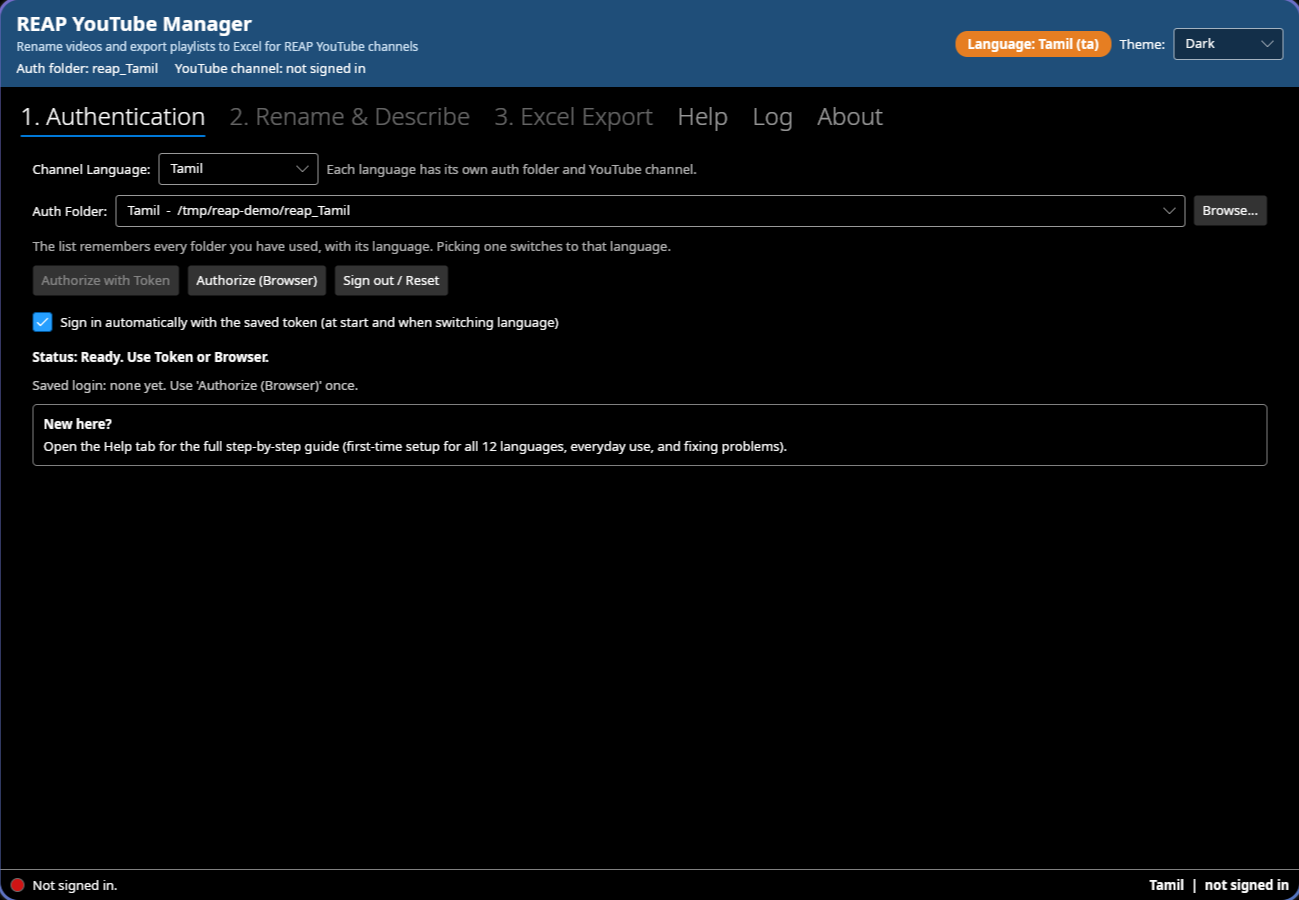
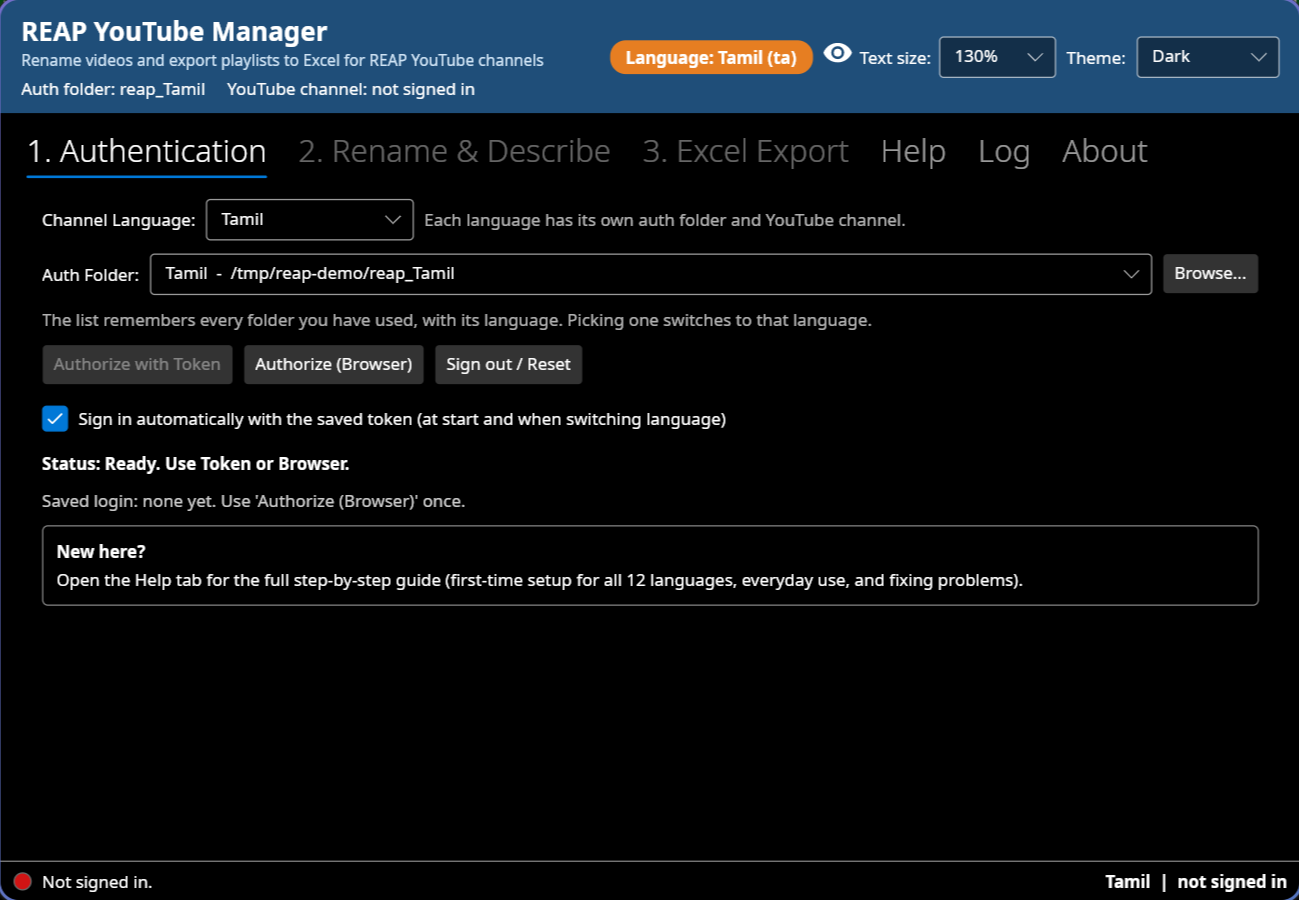
Add text size control for readability

diff --git a/ReapManager/MainWindow.cs b/ReapManager/MainWindow.cs
@@ -18,7 +18,10 @@ using Google.Apis.Services;
 using Google.Apis.Util.Store;
 using Google.Apis.YouTube.v3;
 using Google.Apis.YouTube.v3.Data;
+using Avalonia.Input;
+using Avalonia.Interactivity;
 using Ellipse = Avalonia.Controls.Shapes.Ellipse;
+using PathShape = Avalonia.Controls.Shapes.Path;
 
 namespace ReapManager;
 
@@ -63,6 +66,11 @@ public class MainWindow : Window
     readonly TextBlock _langBadgeText = new() { Foreground = Brushes.White, FontWeight = FontWeight.Bold };
     readonly TextBlock _headerChannel = new() { Foreground = Brushes.White, FontSize = 13, TextWrapping = TextWrapping.Wrap, Margin = new Thickness(0, 4, 0, 0) };
     readonly ComboBox _themeCombo = new() { ItemsSource = new[] { "System", "Light", "Dark" }, MinWidth = 110 };
+    static readonly double[] Scales = [1.0, 1.15, 1.3, 1.5, 1.75, 2.0];
+    readonly ComboBox _scaleCombo = new() { ItemsSource = Scales.Select(x => $"{x * 100:0}%").ToArray(), MinWidth = 90 };
+    readonly LayoutTransformControl _zoom = new();
+    // Material Design "eye" icon (Apache-2.0)
+    const string EyeIcon = "M12,9A3,3 0 0,0 9,12A3,3 0 0,0 12,15A3,3 0 0,0 15,12A3,3 0 0,0 12,9M12,17A5,5 0 0,1 7,12A5,5 0 0,1 12,7A5,5 0 0,1 17,12A5,5 0 0,1 12,17M12,4.5C7,4.5 2.73,7.61 1,12C2.73,16.39 7,19.5 12,19.5C17,19.5 21.27,16.39 23,12C21.27,7.61 17,4.5 12,4.5Z";
     readonly Ellipse _led = new() { Width = 14, Height = 14, Stroke = Brushes.DimGray, StrokeThickness = 1, Margin = new Thickness(0, 0, 8, 0) };
     readonly TextBlock _statusText = new() { Text = "Welcome!", VerticalAlignment = VerticalAlignment.Center, TextTrimming = TextTrimming.CharacterEllipsis };
     readonly TextBlock _statusLang = new() { VerticalAlignment = VerticalAlignment.Center, FontWeight = FontWeight.Bold, Margin = new Thickness(12, 0, 0, 0) };
@@ -130,6 +138,19 @@ public class MainWindow : Window
             Log.Debug($"Theme set to {_settings.Theme}.");
         };
         _autoSignIn.IsCheckedChanged += (_, _) => { _settings.AutoSignIn = _autoSignIn.IsChecked == true; _settings.Save(); };
+        _scaleCombo.SelectedIndex = NearestScale(_settings.TextScale);
+        _scaleCombo.SelectionChanged += (_, _) => ApplyScale(Scales[Math.Max(0, _scaleCombo.SelectedIndex)]);
+        // Ctrl + / Ctrl - / Ctrl 0 change text size anywhere (tunnel so text boxes don't swallow it)
+        AddHandler(KeyDownEvent, (_, e) =>
+        {
+            if (!e.KeyModifiers.HasFlag(KeyModifiers.Control)) return;
+            int i = _scaleCombo.SelectedIndex;
+            if (e.Key is Key.OemPlus or Key.Add) i = Math.Min(i + 1, Scales.Length - 1);
+            else if (e.Key is Key.OemMinus or Key.Subtract) i = Math.Max(i - 1, 0);
+            else if (e.Key is Key.D0 or Key.NumPad0) i = 0;
+            else return;
+            _scaleCombo.SelectedIndex = i; e.Handled = true;
+        }, RoutingStrategies.Tunnel);
         _verbose.IsCheckedChanged += (_, _) => { _settings.VerboseLog = _verbose.IsChecked == true; _settings.Save(); RebuildLogView(); };
 
         _browseBtn.Click += async (_, _) => await BrowseFolder();
@@ -144,7 +165,7 @@ public class MainWindow : Window
         BuildGrids();
         _tab2.Content = BuildRenameTab();
         _tab3.Content = BuildExcelTab();
-        Content = new DockPanel
+        _zoom.Child = new DockPanel
         {
             Children =
             {
@@ -153,6 +174,8 @@ public class MainWindow : Window
                 _tabs
             }
         };
+        Content = _zoom;
+        ApplyScale(Scales[_scaleCombo.SelectedIndex]);
 
         _tabs.Items.Add(new TabItem { Header = "1. Authentication", Content = BuildAuthTab() });
         _tabs.Items.Add(_tab2); _tabs.Items.Add(_tab3);
@@ -173,7 +196,18 @@ public class MainWindow : Window
     {
         var badge = new Border { Background = Orange, CornerRadius = new CornerRadius(12), Padding = new Thickness(12, 4), VerticalAlignment = VerticalAlignment.Center, Child = _langBadgeText };
         var themeLabel = new TextBlock { Text = "Theme:", Foreground = Brushes.White, VerticalAlignment = VerticalAlignment.Center };
-        var right = Row(badge, themeLabel, _themeCombo);
+        var eye = new StackPanel
+        {
+            Orientation = Orientation.Horizontal, Spacing = 6, VerticalAlignment = VerticalAlignment.Center,
+            Children =
+            {
+                new PathShape { Data = Geometry.Parse(EyeIcon), Fill = Brushes.White, Width = 22, Height = 22, Stretch = Stretch.Uniform, VerticalAlignment = VerticalAlignment.Center },
+                new TextBlock { Text = "Text size:", Foreground = Brushes.White, VerticalAlignment = VerticalAlignment.Center },
+                _scaleCombo,
+            }
+        };
+        ToolTip.SetTip(eye, "Make everything bigger to reduce eye strain.\nShortcuts: Ctrl + (bigger), Ctrl - (smaller), Ctrl 0 (reset).");
+        var right = Wrap(badge, eye, themeLabel, _themeCombo);
         right.VerticalAlignment = VerticalAlignment.Center;
         var left = new StackPanel
         {
@@ -396,12 +430,26 @@ public class MainWindow : Window
 
     void Status(string s) => _statusText.Text = s;
 
+    static int NearestScale(double scale) =>
+        Array.IndexOf(Scales, Scales.MinBy(x => Math.Abs(x - scale)));
+
+    /// Zooms the whole window (text, buttons, tables) for readability.
+    void ApplyScale(double scale)
+    {
+        _zoom.LayoutTransform = new ScaleTransform(scale, scale);
+        if (Math.Abs(_settings.TextScale - scale) > 0.001)
+        {
+            _settings.TextScale = scale; _settings.Save();
+            Log.Info($"Text size set to {scale * 100:0}%.");
+        }
+    }
+
     async Task<bool> Message(string title, string text, bool yesNo = false)
     {
         bool result = false;
         var dlg = new Window
         {
-            Title = title, Width = 480, SizeToContent = SizeToContent.Height,
+            Title = title, Width = 480 * _settings.TextScale, SizeToContent = SizeToContent.Height,
             WindowStartupLocation = WindowStartupLocation.CenterOwner, CanResize = false
         };
         var ok = new Button { Content = yesNo ? "Yes" : "OK", MinWidth = 70, IsDefault = true };
@@ -410,10 +458,14 @@ public class MainWindow : Window
         no.Click += (_, _) => dlg.Close();
         var buttons = Row(ok, no);
         buttons.HorizontalAlignment = HorizontalAlignment.Right;
-        dlg.Content = new StackPanel
+        dlg.Content = new LayoutTransformControl
         {
-            Margin = new Thickness(16), Spacing = 14,
-            Children = { new SelectableTextBlock { Text = text, TextWrapping = TextWrapping.Wrap }, buttons }
+            LayoutTransform = new ScaleTransform(_settings.TextScale, _settings.TextScale),
+            Child = new StackPanel
+            {
+                Margin = new Thickness(16), Spacing = 14,
+                Children = { new SelectableTextBlock { Text = text, TextWrapping = TextWrapping.Wrap }, buttons }
+            }
         };
         await dlg.ShowDialog(this);
         return result;

diff --git a/ReapManager/HelpText.cs b/ReapManager/HelpText.cs
@@ -12,6 +12,13 @@ static class HelpText
          "  - YouTube channel: the real channel name from Google after you sign in\n" +
          "All three must belong to the same language. The window title and the bottom-right of the status bar show it too."),
 
+        ("Text size (eye icon) - reduce eye strain",
+         "Text too small? Use the eye icon 'Text size' in the blue header, next to the language badge:\n" +
+         "  100% (normal), 115%, 130%, 150%, 175%, 200%.\n" +
+         "It makes everything bigger: text, buttons, tables and pop-up messages. The size is remembered for next time.\n" +
+         "Keyboard: Ctrl + (bigger), Ctrl - (smaller), Ctrl 0 (back to 100%).\n" +
+         "Dark mode (Theme: Dark) is also easier on the eyes in a dim room."),
+
         ("1. One-time setup: one auth folder per language",
          "Every language is a separate YouTube channel, so each language needs its own auth folder with that channel's files:\n\n" +
          "  D:\\REAP Auth\\reap_English\\     oauth_client.json  +  api.txt\n" +

diff --git a/ReapManager/Infra.cs b/ReapManager/Infra.cs
@@ -67,6 +67,7 @@ public class Settings
     public Dictionary<string, string> AuthFolders { get; set; } = new();
     public bool AutoSignIn { get; set; } = true;
     public bool VerboseLog { get; set; }
+    public double TextScale { get; set; } = 1.0;
 
     public static Settings Current { get; private set; } = new();
     static string FilePath => Path.Combine(AppInfo.DataDir, "settings.json");

diff --git a/README.md b/README.md
@@ -22,7 +22,7 @@ Punjabi, Assamese, Odia. Light and dark mode. Open source.
 
 ![Authentication tab, light mode](docs/screenshots/auth-light.png)
 
-**Dark mode:**
+**Dark mode, text size 130%** (eye icon in the header):
 
 ![Authentication tab, dark mode](docs/screenshots/auth-dark.png)
 
@@ -108,9 +108,12 @@ folders with Browse.
 3. The language code comes from the end of the playlist title (`NARQ30056_ta` -> `ta`). If it does not match
    the selected language you get a warning first.
 
-## Theme
+## Text size (eye icon) and theme
 
-Top-right: **System**, **Light** or **Dark**. Remembered for next time.
+- **Text size** (eye icon in the header, next to the language badge): 100% to 200%. Makes everything bigger
+  (text, buttons, tables, pop-ups) to reduce eye strain. Remembered for next time.
+  Keyboard: **Ctrl +** bigger, **Ctrl -** smaller, **Ctrl 0** back to 100%.
+- **Theme** (top-right): **System**, **Light** or **Dark**. Remembered for next time.
 
 ## Problems and fixes
 

diff --git a/.github/release-notes.md b/.github/release-notes.md
@@ -14,6 +14,7 @@
 - Language mismatch warning before generating an Excel sheet.
 - Fix: Excel save failed when the playlist description had a line break (`[Errno 22] Invalid argument`).
 - Fix: saved-token expiry check error.
+- Text size 100-200% (eye icon, Ctrl +/-/0) to reduce eye strain.
 - Light / Dark / System theme, Help tab, live Log tab, logs folder path with Copy path / Open folder, About page.
 - Reuses `token.json` from the old Python app.
 
